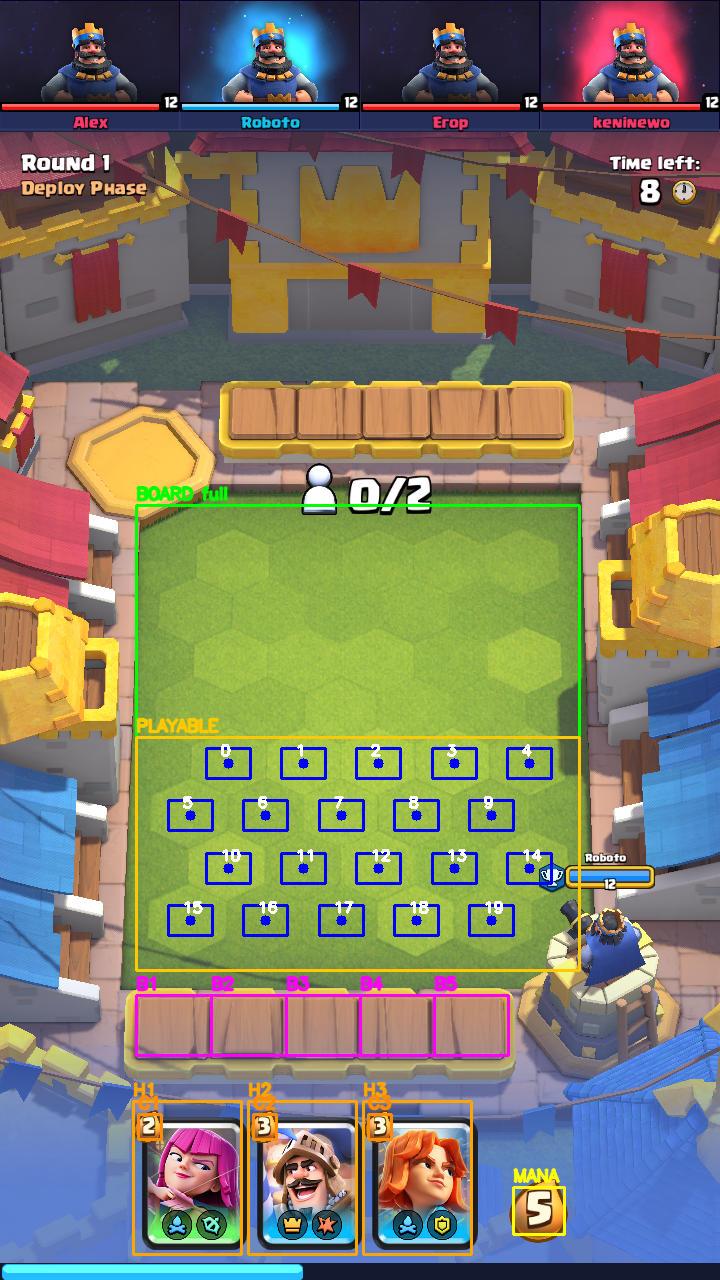
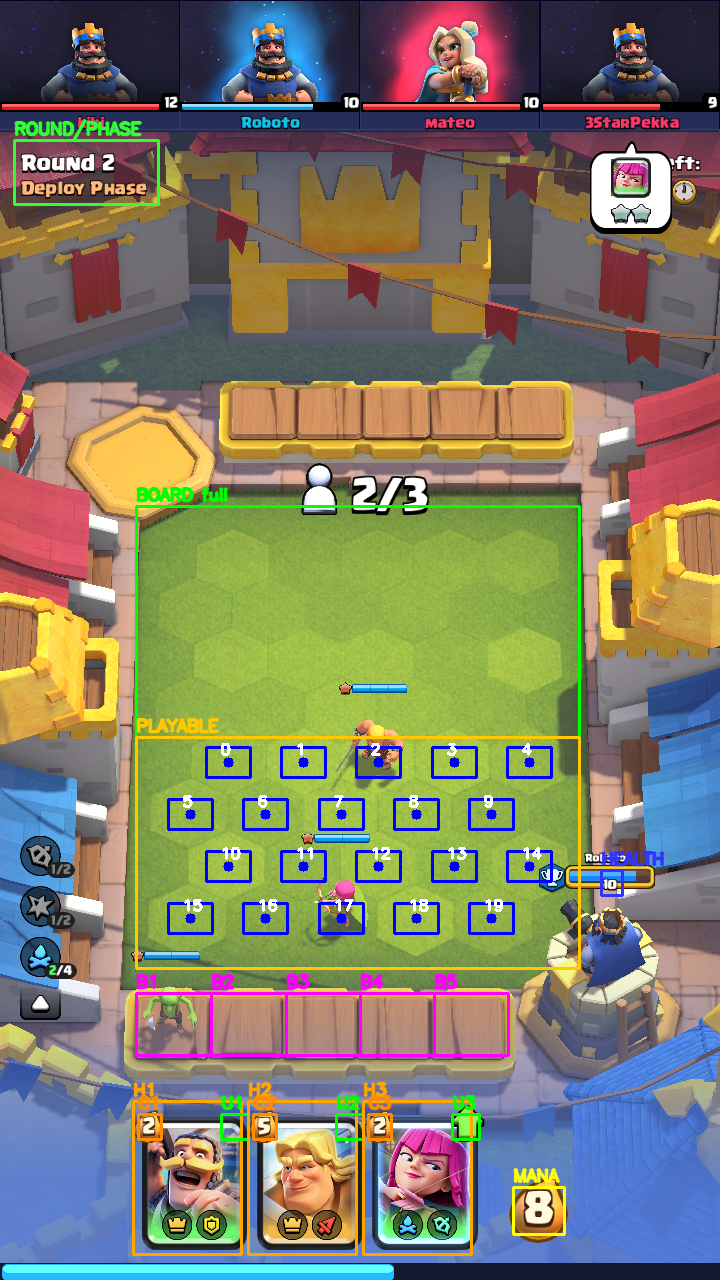
Update geometry.json to include health, round, and upgrade arrow ROIs

diff --git a/scripts/generate-geometry.py b/scripts/generate-geometry.py
@@ -49,14 +49,14 @@ def find_board_rect(bgr):
     mask = cv2.morphologyEx(mask, cv2.MORPH_OPEN, kernel)
     cnts, _ = cv2.findContours(mask, cv2.RETR_EXTERNAL, cv2.CHAIN_APPROX_SIMPLE)
     if not cnts:
-        x, y, w, h = int(0.18 * W), int(0.25 * H), int(0.64 * W), int(0.55 * H)
+        x, y, w, h = int(0.18 * W), int(0.25 * H), int(0.64 * W), int(0.64 * H)
     else:
         c = max(cnts, key=cv2.contourArea)
         x, y, w, h = cv2.boundingRect(c)
     x_in = x + int(0.03 * w)
     y_in = y + int(0.04 * h)
     w_in = w - int(0.06 * w)
-    h_in = h - int(0.08 * h)
+    h_in = h - int(0.14 * h)
     return (x_in, y_in, w_in, h_in), hsv
 
 
@@ -175,10 +175,10 @@ def compute_bench_slots(playable_rect_px, hand_boxes_norm, W, H, n_slots=5, benc
 
 def main():
     parser = argparse.ArgumentParser()
-    parser.add_argument("--img", type=Path, default=Path("assets/screenshots/beginning-board.png"))
+    parser.add_argument("--img", type=Path, default=Path("../assets/screenshots/upgrade.png"))
     parser.add_argument("--rows", type=int, default=4)
     parser.add_argument("--cols", type=int, default=5)
-    parser.add_argument("--out_dir", type=Path, default=Path("../screenshots"))
+    parser.add_argument("--out_dir", type=Path, default=Path("../assets/screenshots"))
     args = parser.parse_args()
 
     args.out_dir.mkdir(parents=True, exist_ok=True)
@@ -210,10 +210,16 @@ def main():
     hand_y = 0.92
     hand_w, hand_h = 0.15, 0.12
 
+    round_phase_roi = {"x": 0.02, "y": 0.11, "w": 0.20, "h": 0.05}
+
+    health_roi = {"x": 0.835, "y": 0.68, "w": 0.03, "h": 0.02}
+
     # cost ROI relative to each hand box (top-left corner of the card)
     # tweak these if your card design differs:
     # x,y,w,h are relative to the hand card rectangle (0..1, origin at hand box top-left)
     cost_roi_rel = {"x": 0.05, "y": 0.05, "w": 0.22, "h": 0.30}
+
+    upgrade_arrow_rel = {"x": 0.82, "y": 0.05, "w": 0.25, "h": 0.30}
 
     hand = []
     for xc in hand_centers_x:
@@ -222,7 +228,8 @@ def main():
             "cy": float(hand_y),
             "w": float(hand_w),
             "h": float(hand_h),
-            "cost_roi_rel": cost_roi_rel
+            "cost_roi_rel": cost_roi_rel,
+            "upgrade_arrow_rel": upgrade_arrow_rel
         }
         hand.append(hand_entry)
 
@@ -236,12 +243,12 @@ def main():
         "board_rect_full": full_norm,
         "board_rect_playable": playable_norm,
         "board": {"rows": args.rows, "cols": args.cols, "tiles": tiles},
-        "bench": {"slots": bench_slots},
+        "bench": bench_slots,
         "hand": hand,
         "mana_roi": mana_roi,
     }
 
-    out_json = Path("geometry.json")
+    out_json = Path("../geometry.json")
     with open(out_json, "w") as f:
         json.dump(geometry, f, indent=2)
 
@@ -285,9 +292,22 @@ def main():
         cax, cay, caw, cah = to_abs_rect(cost_abs_norm, W, H)
         draw_labeled_rect(overlay, (cax, cay, caw, cah), (0, 140, 255), f"C{i+1}")
 
+        # upgrade arrow
+        arrow_abs_norm = rel_child_abs_norm(parent_center_norm, parent_size_norm, hbox["upgrade_arrow_rel"])
+        ax, ay, aw, ah = to_abs_rect(arrow_abs_norm, W, H)
+        draw_labeled_rect(overlay, (ax, ay, aw, ah), (0, 255, 0), f"U{i+1}")
+
     # draw mana and sell
     mx, my, mw_, mh_ = to_abs_rect(mana_roi, W, H)
     draw_labeled_rect(overlay, (mx, my, mw_, mh_), (0, 255, 255), "MANA")
+
+    # draw round phase
+    rx, ry, rw, rh = to_abs_rect(round_phase_roi, W, H)
+    draw_labeled_rect(overlay, (rx, ry, rw, rh), (50, 255, 50), "ROUND/PHASE")
+
+    # draw health
+    hx, hy, hw, hh = to_abs_rect(health_roi, W, H)
+    draw_labeled_rect(overlay, (hx, hy, hw, hh), (255, 50, 50), "HEALTH")
 
     out_dir = args.out_dir
     out_overlay = out_dir / "annotated_geometry_overlay.png"
